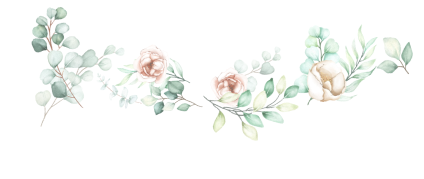
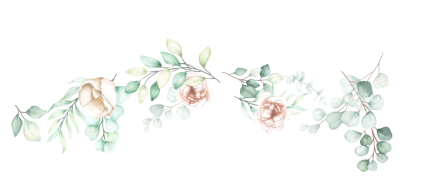
a

Changed region(s): [[0.0, 0.0279, 0.9811, 0.9777], [0.2759, 0.6983, 0.3066, 0.7263]]

diff --git a/assets/css/style.css b/assets/css/style.css
@@ -25,7 +25,6 @@
 .hlmn{
     height: auto; 
     position: relative; 
-    background-color: yellow; 
     display: block;
     height: 640px;
 }

diff --git a/application/views/undangan/undangan.php b/application/views/undangan/undangan.php
@@ -22,19 +22,11 @@
             </div>
         </div>
 
-        <div class="hlmn" style=" ">
-            <div class="konten">
+        <div class="hlmn" style="background-image: url('<?= base_url()?>assets/image/bgwarna.png;');">
                 <img src="<?= base_url()?>assets/image/bungaatas.png" style="display: block;margin: auto;">
                 <img src="<?= base_url()?>assets/image/bungakanan.png" style="position: absolute; right: 0; top: 149px;">
                 <img src="<?= base_url()?>assets/image/bungakiri.png" style="position:absolute;left: 0;bottom: 149px;">
-                <img src="<?= base_url()?>assets/image/bgwarna.png" style="position: absolute;
-width: 444px;
-height: 453px;
-left: -76px;
-top: 278px;">
                 <img src="<?= base_url()?>assets/image/bungabawah.png" style="display: block; margin: auto; margin-top: 331px;">
-               
-
             </div>
         </div>
     </div>
